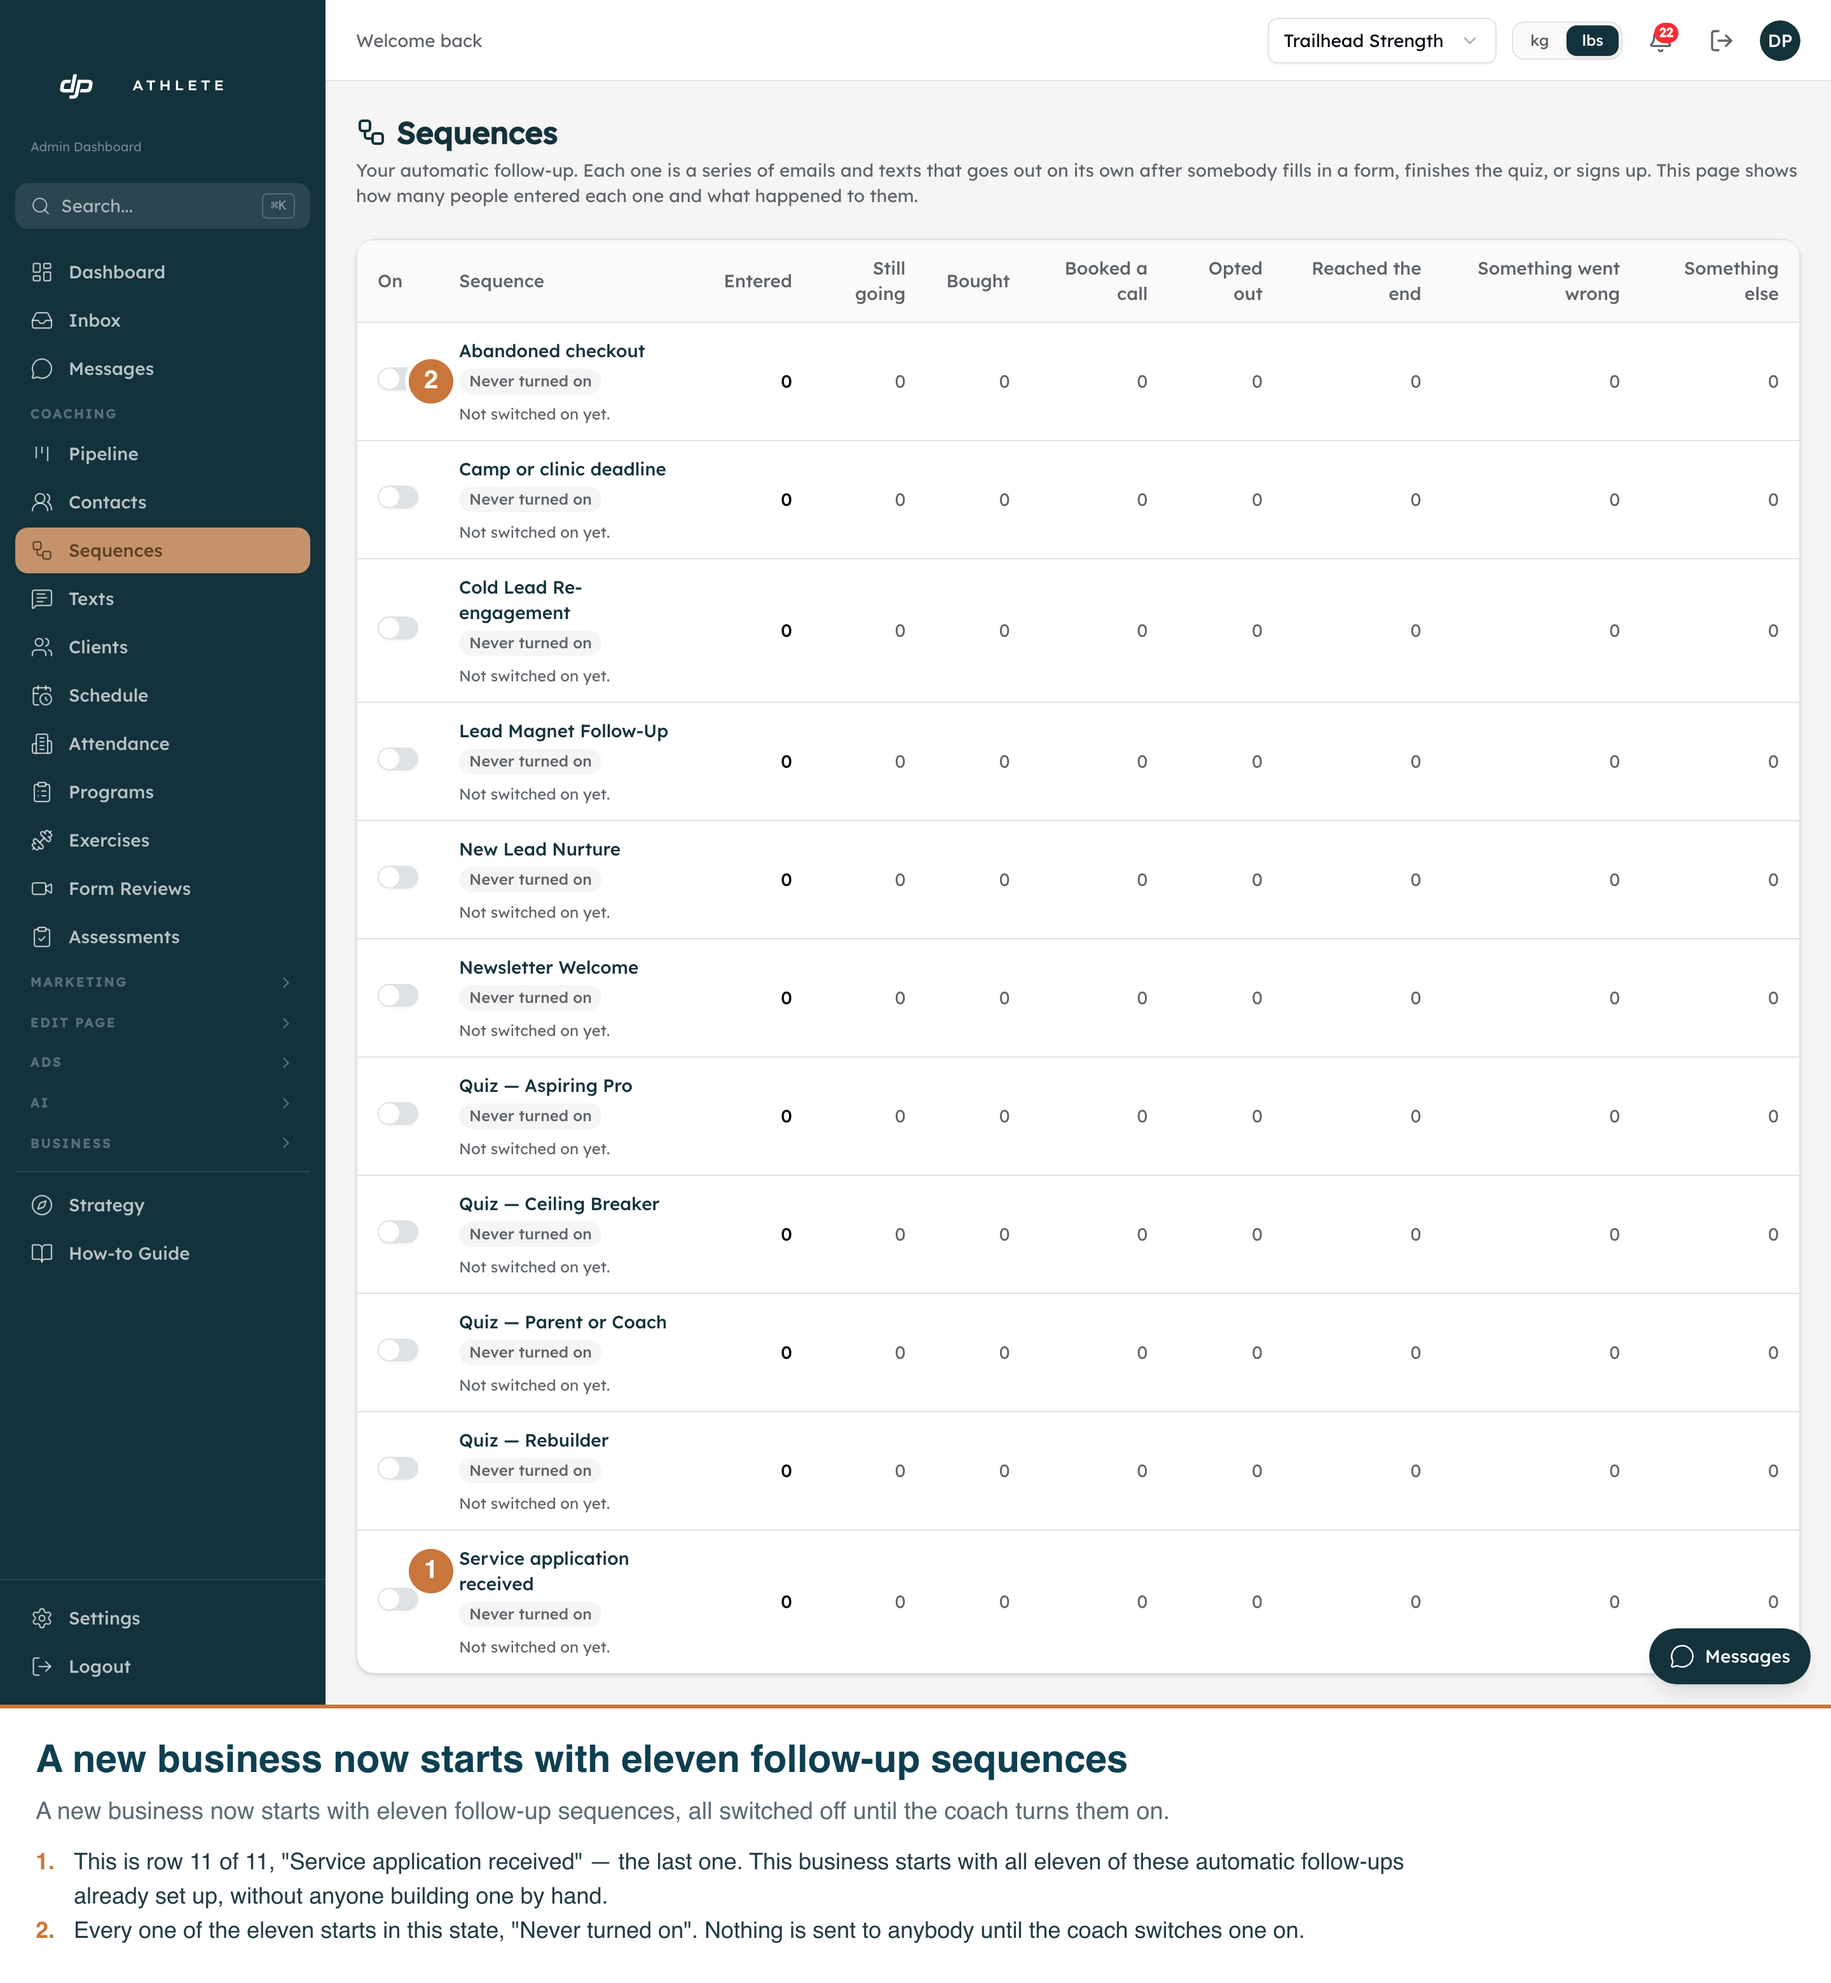
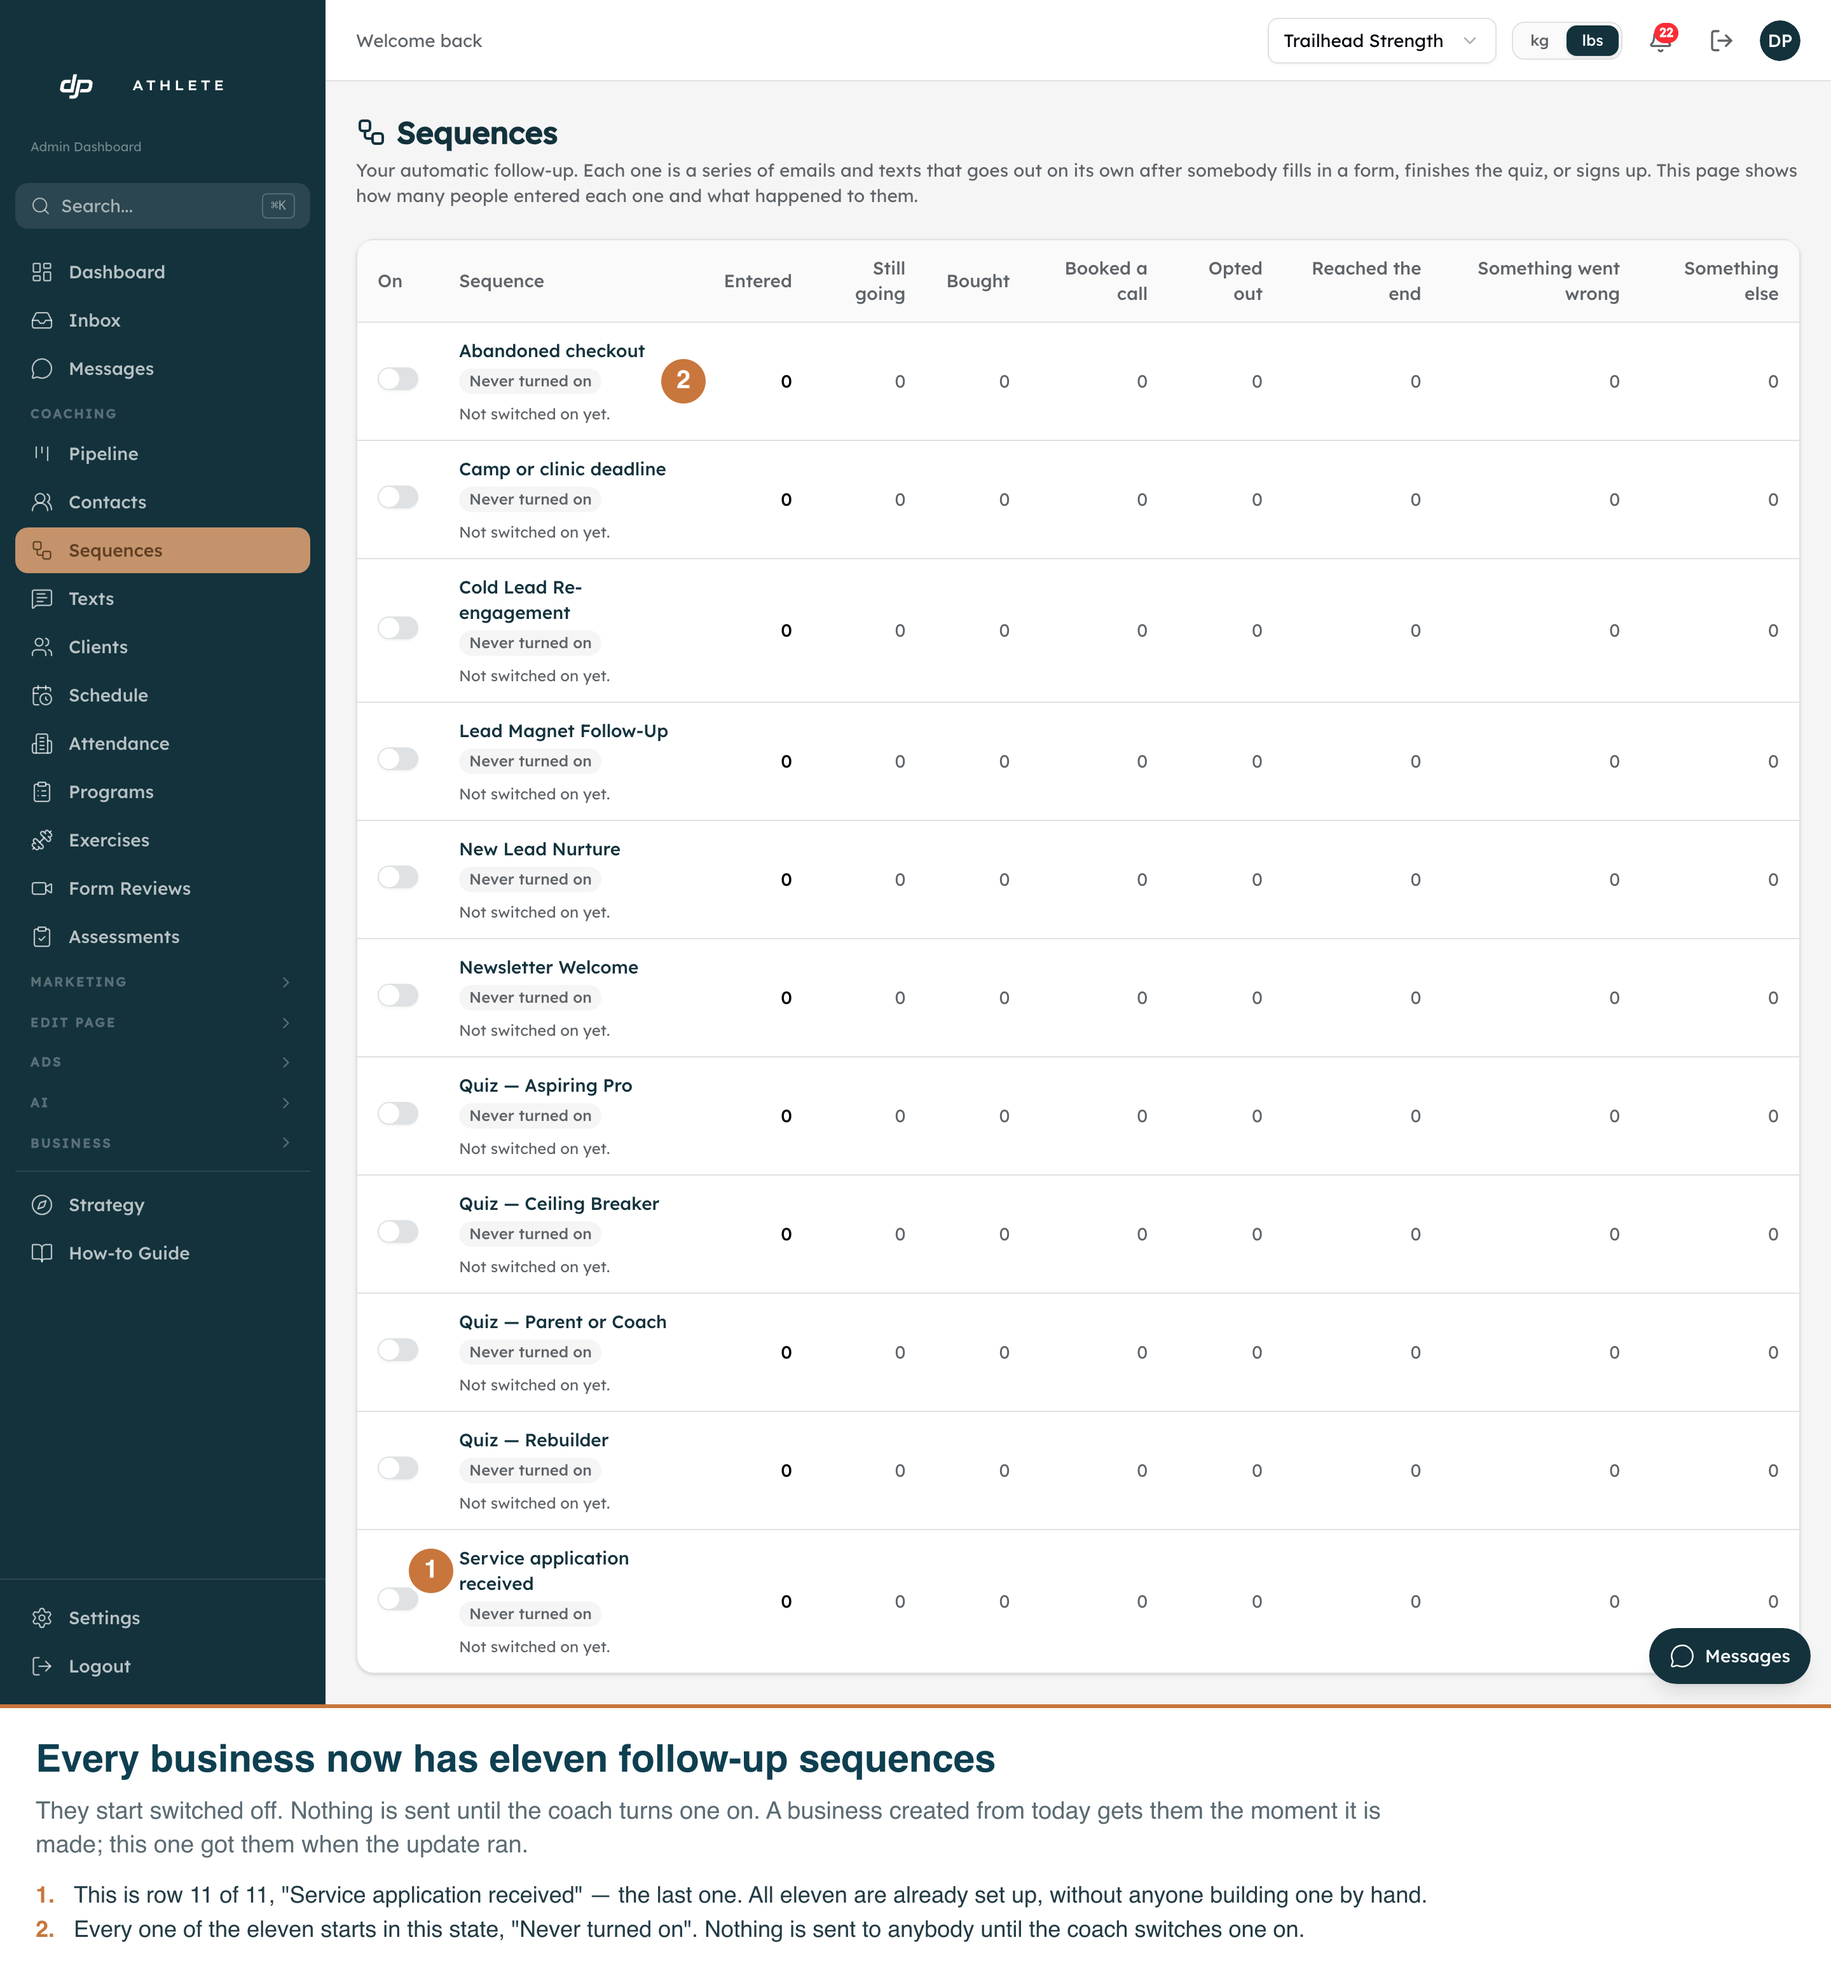
fix(screenshots): move markers off text and controls, correct captions (G32)
Review round 1 found three problems with the G32 starter-set screenshots:

- The three pipeline-pill markers sat "above" the pills, in a 29px gap that
  is narrower than a marker disc (~38px) — they clipped words in the page's
  own paragraph ("stages", "on", "closes") no matter where in that gap they
  landed. Moved them to the open background to the right of the pill group,
  verified clear with elementFromPoint probes at nine points around each
  candidate disc before trusting a position.
- The sequences shot's second marker sat 22px right of the "Never turned on"
  badge and clipped the sequence-name line above it (the cell stacks three
  lines, and the name is often wider than the badge). Moved past the
  rightmost edge of every line in that row's cell instead.
- Both captions said "a new business now starts with..." about Trailhead,
  which is an existing business that got the starter set from the
  migration's backfill, not from being created today. Reworded to say what
  is actually true, and to stop the heading and body repeating each other.
- The README repeated the same false claim the earlier commit message had
  already been corrected for: Primary's three boards are not from 00279 (it
  is a no-op once a board key exists) — they are from 00219 (Coaching) and
  00257 (Assessment, Camps & Clinics).

Capture logic and the tenant guard are unchanged; this is annotation
placement and caption wording only.

diff --git a/screenshots/g32-business-starter-set/README.html b/screenshots/g32-business-starter-set/README.html
@@ -44,8 +44,10 @@
       never clicks a sequence's on/off switch, never drags a pipeline card, and never submits a form.</li>
     <li><strong>Light only.</strong> The admin screens have no working dark mode, so there is no dark shot.</li>
     <li><strong>Proven, not assumed, that this is Trailhead's screen and not the platform's own.</strong>
-      The platform's business ("Primary") was also backfilled by the same migration and ended up with the
-      same three board names, also all active, also Coaching first — a wrong-tenant pipeline shot would
+      The platform's business ("Primary") has the same three board names, also all active, also Coaching
+      first — but not because 00279 backfilled it. Primary has had Coaching since migration 00219 and
+      gained Assessment and Camps &amp; Clinics from 00257; 00279's insert is a no-op for a board key that
+      already exists, so it left Primary's three untouched. Either way, a wrong-tenant pipeline shot would
       look almost identical at a glance. The capture script instead reads the page's own sentence, which
       the server builds from Trailhead's own business name ("Trailhead Strength &amp; Conditioning —
       Personal Training's Coaching pipeline") — a sentence Primary's page can never produce. For the
@@ -62,20 +64,20 @@
 <figure>
   <img src="01-eleven-sequences-never-turned-on.png" alt="The Sequences list for Trailhead, showing eleven rows all marked Never turned on">
   <figcaption>
-    <h2>1 · Eleven follow-up sequences, all switched off</h2>
-    <p>A new business now starts with eleven follow-up sequences, all switched off until the coach turns
-      them on. Every row reads "Never turned on" and shows zero people in it — nobody built any of these
-      by hand, and nothing has gone out to anybody yet.</p>
+    <h2>1 · Every business now has eleven follow-up sequences</h2>
+    <p>They start switched off. Nothing is sent until the coach turns one on. A business created from
+      today gets them the moment it is made; Trailhead is an existing business, and it got them when the
+      update ran — that is why every row here still shows zero people, since none has been turned on yet.</p>
   </figcaption>
 </figure>
 
 <figure>
   <img src="02-three-boards-coaching-first.png" alt="The Pipeline page for Trailhead, showing three board pills: Coaching, Assessment, Camps and Clinics, with Coaching selected">
   <figcaption>
-    <h2>2 · All three pipeline boards, Coaching first</h2>
-    <p>It also starts with all three boards, Coaching first. A coach who wants to track assessments or
-      camps separately from ongoing coaching does not have to build those boards — they are already
-      there, empty and ready.</p>
+    <h2>2 · …and all three boards, with Coaching first</h2>
+    <p>A coach who wants to track assessments or camps and clinics separately from day-to-day coaching
+      does not have to build these boards — they already exist, empty, ready to use, the same way the
+      eleven sequences above did.</p>
   </figcaption>
 </figure>
 
